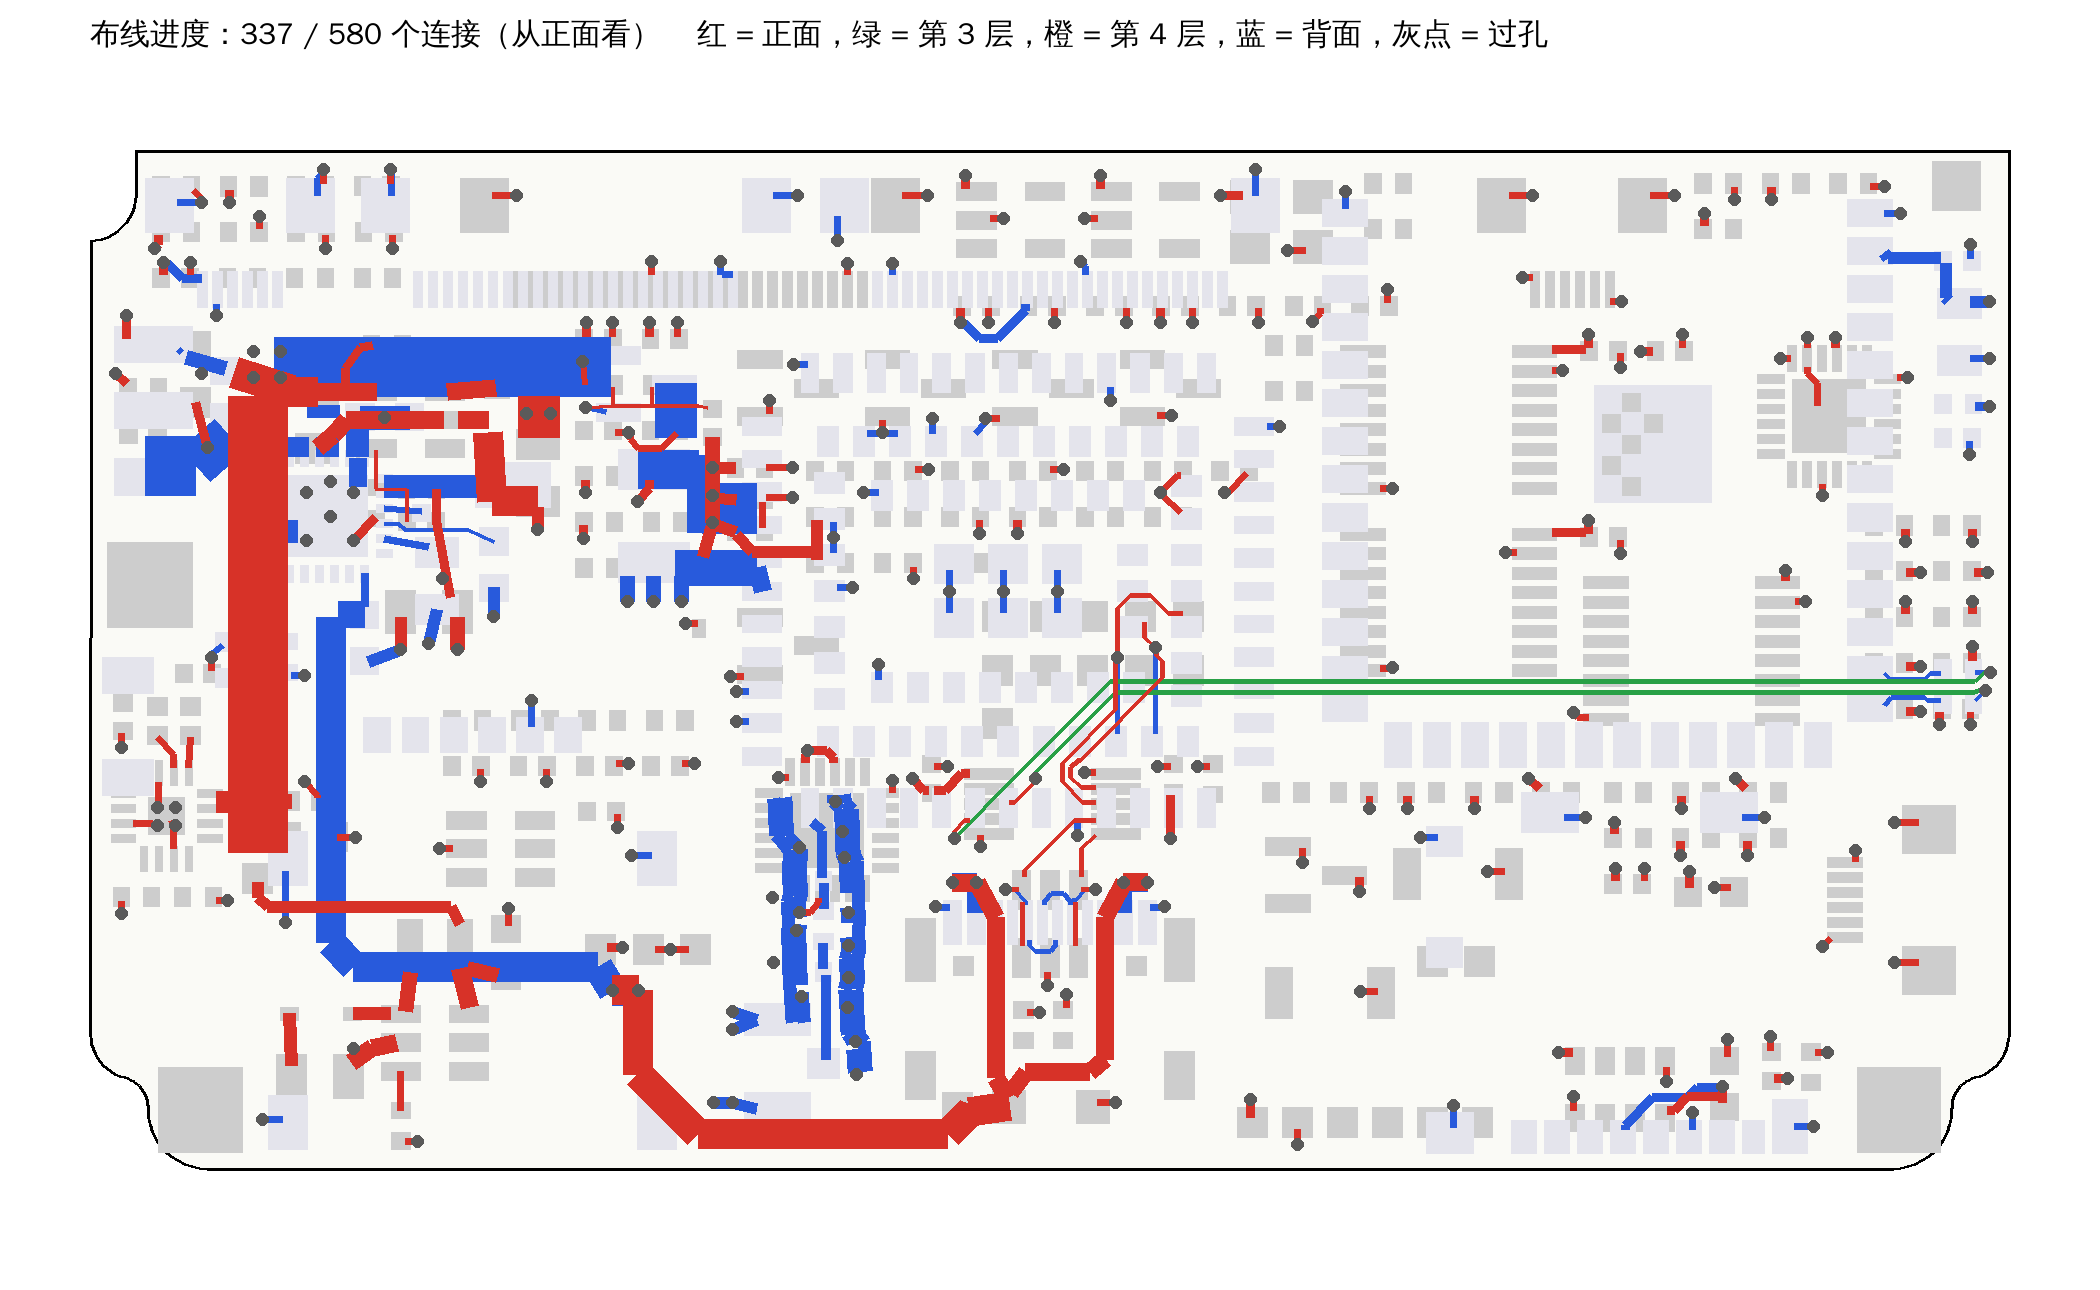
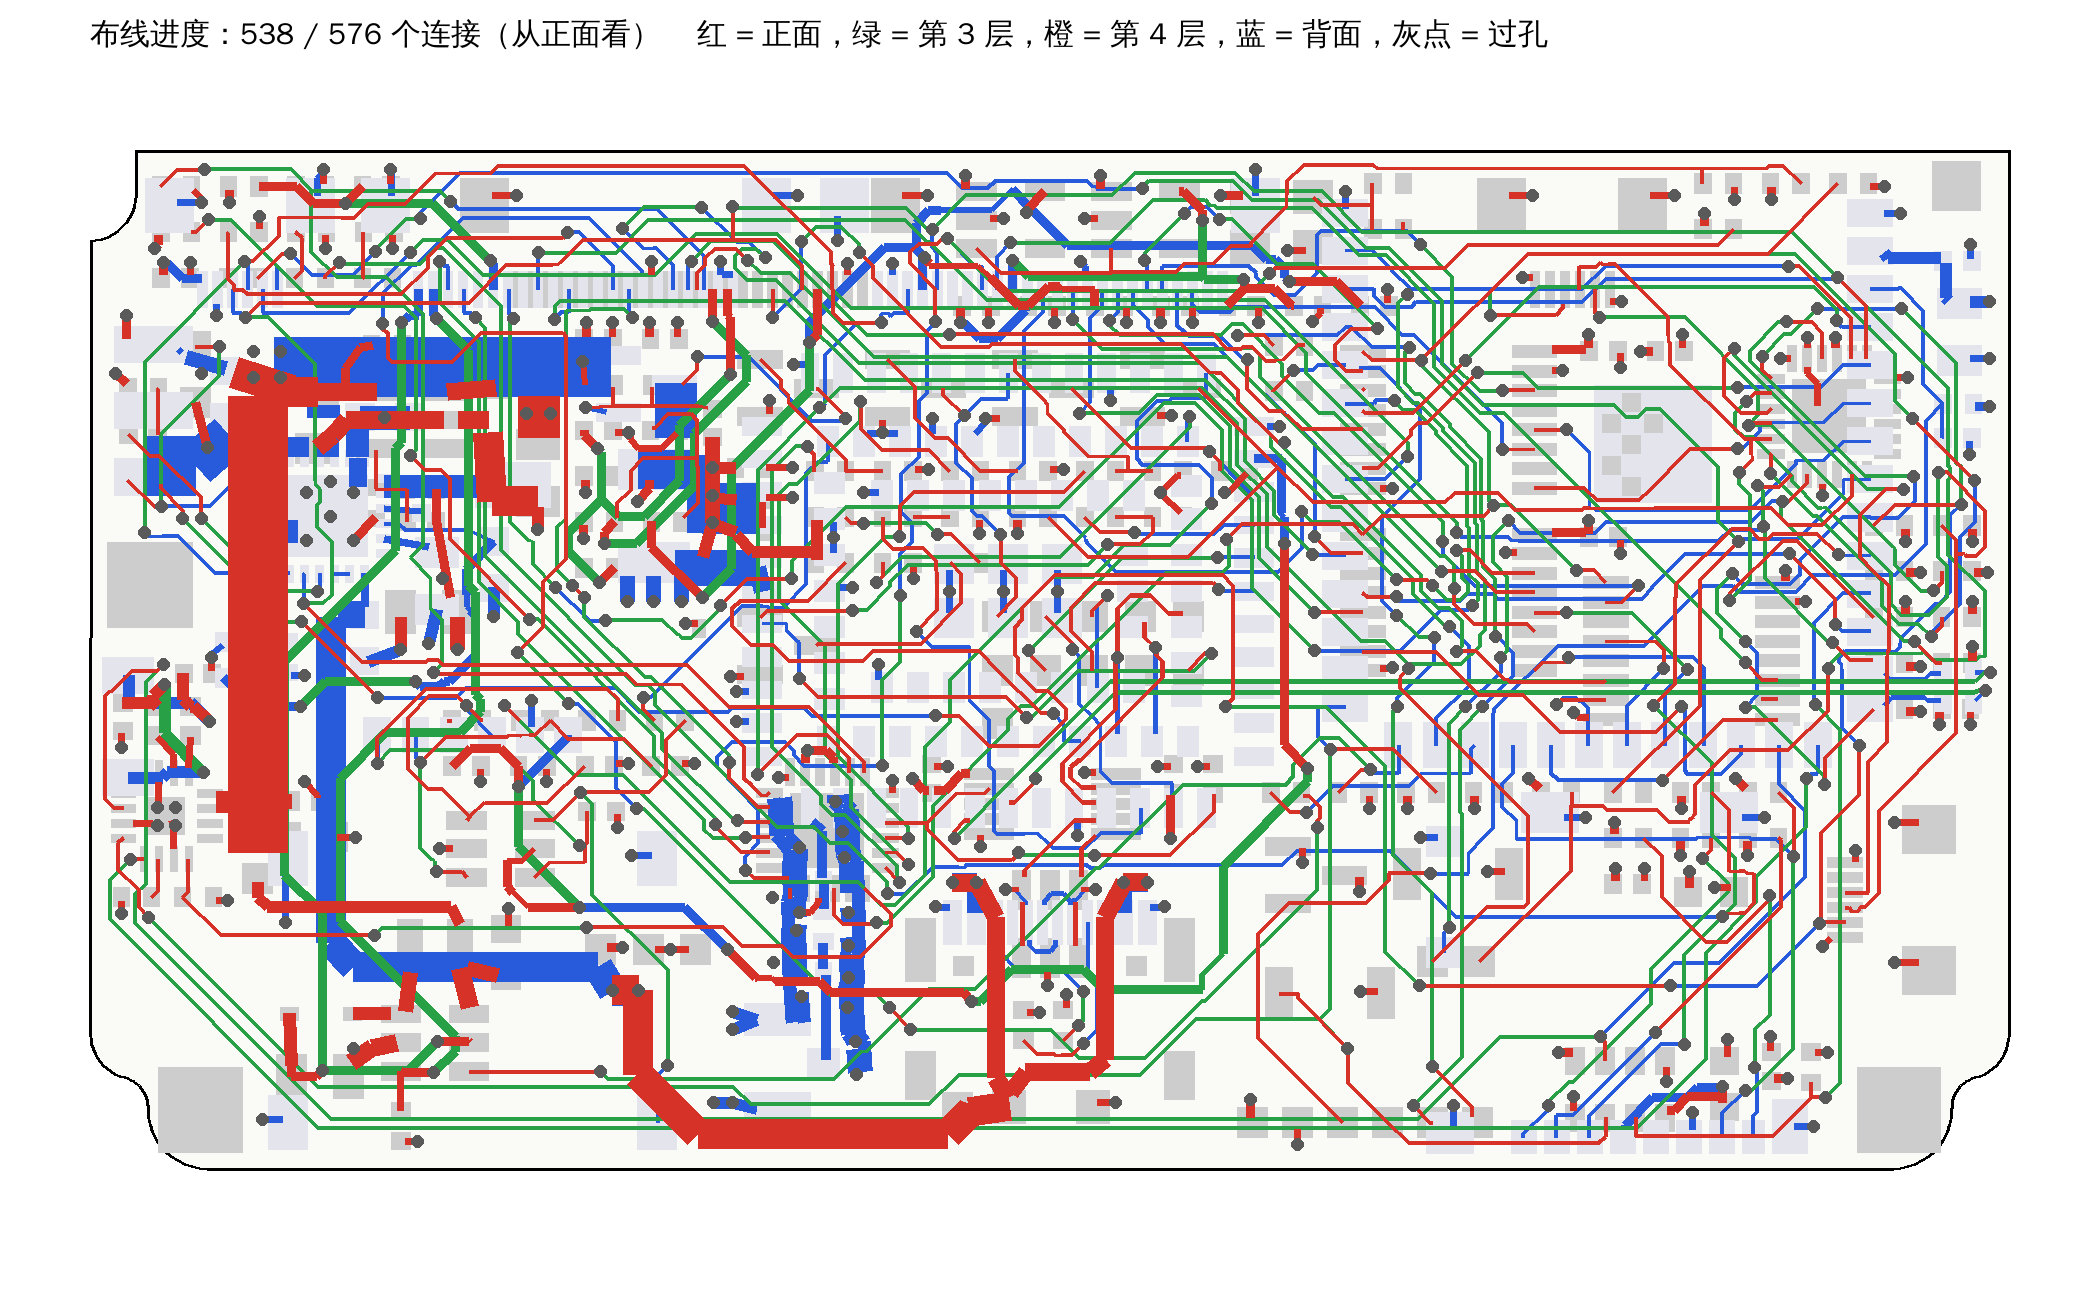
docs(hardware): record the second Freerouting round and where it stops
538 of 576 connections, rule check clean. The README now says how the
hand-off file is made, how to rerun with a time limit, and why 38 signal
connections are left: pads that cannot get out, 20 of them on the three FPC
connectors at the top edge.

Claude-Session: https://claude.ai/code/session_01JQaTnpSi55n8moiBs7CGgN

diff --git a/hardware/esp32-s3-board/kicad/README.md b/hardware/esp32-s3-board/kicad/README.md
@@ -4,10 +4,11 @@ ESP32-S3-WROOM-1U-N16R8 + Air780E 的主板，第一版，**草稿**：原理图
 **布线没有完成，还不能投板。**引脚分配按 `../docs/requirements.md` 的方案三。
 
 > **当前状态**：六层、板厚 1.6 mm，按 [`../docs/layout-spec.md`](../docs/layout-spec.md)（V0.3）在做。
-> - `zeebuddy-mainboard.kicad_pcb` 现在是**第二轮的底子**：电源铜皮、三个开关电源、天线线、USB、
->   每个地和 3.3 V 焊盘的过孔都已经做好并锁定；KiCad 检查 0 条违规；剩 **243 处信号连接**还没布。
-> - 下一步：用 `freerouting/zeebuddy-mainboard.dsn` 在 Freerouting 里布信号线（见"第二轮"一节），
->   把结果交回来导入、收尾。
+> - `zeebuddy-mainboard.kicad_pcb` 是**第二轮的结果**：底子（电源铜皮、三个开关电源、天线线、USB、
+>   每个地和 3.3 V 焊盘的过孔）已锁定，信号线由 Freerouting 布了 20 分钟再收尾。
+>   576 处连接通了 **538 处**，KiCad 检查 0 条违规，**还剩 38 处信号线没连**。
+> - 剩下的 38 处是"线出不来"：多数在上边缘的三个排线座（屏、前摄、后摄），引脚正下方紧贴着元件和电源铜带。
+>   这要靠调整摆放解决，不是再多跑几轮能解决的（见"第二轮"一节）。
 > - 还没达标的：USB 四段里三段的等长（USB-3）；另有 3 处和规范的出入等确认（见规范的"待定问题"）。
 
 ## 文件
@@ -24,10 +25,11 @@ ESP32-S3-WROOM-1U-N16R8 + Air780E 的主板，第一版，**草稿**：原理图
 | `camera.kicad_sch` | 6 前后摄像头、总线切换、摄像头电源 |
 | `audio_tf.kicad_sch` | 7 麦克风、功放、TF 卡 |
 | `zeebuddy.kicad_sym` | 工程自带的符号（Air780E、排线座等） |
-| `zeebuddy-mainboard.kicad_pcb` | PCB：六层，外形、螺丝孔、213 个元件全部摆好；电源、地、天线线、USB 已布好并锁定，信号线未布 |
+| `zeebuddy-mainboard.kicad_pcb` | PCB：六层，外形、螺丝孔、213 个元件全部摆好；电源、地、天线线、USB 已布好并锁定，信号线布了 205 / 243 处 |
 | `placement-front.png` / `placement-back.png` | 正反两面主要器件的摆放示意图 |
 | `routing.png` | 当前布线的示意图 |
-| `freerouting/zeebuddy-mainboard.dsn` | **第二轮**给 Freerouting 用的板子文件（底子已锁定，只剩信号线） |
+| `freerouting/zeebuddy-mainboard.dsn` | **第二轮**给 Freerouting 用的板子文件（底子作为障碍，只有信号线要布） |
+| `freerouting/zeebuddy-mainboard.ses` | 第二轮 Freerouting 的结果（2.5.0，限时 20 分钟） |
 | `freerouting/round1.ses` | 第一轮的布线结果，存档用。它对应的是旧摆放（提交 `2e952f9`），不能导入现在的板子 |
 | `zeebuddy.pretty/` | 工程自带的封装（Air780E、SY6970、麦克风和几个占位封装） |
 | `gen/` | 生成原理图、封装库和 PCB 的脚本，见下面"PCB 是怎么生成的" |
@@ -56,7 +58,7 @@ gen/build.sh
 - PCB 与原理图一致性：213 个封装、全部焊盘的网络都与原理图一致。
 - KiCad DRC：元件之间没有重叠，没有超出板边；已布的线没有间距、短路、孔距、板边类的违规。
   有 1 个提示：天线座封装与库里的不一致（我把它自带的禁布区从"所有层"改成了只在背面，是有意的）。
-  剩下 243 个"未连接"，就是还没布的信号线。
+  剩下 38 个"未连接"，是还没布通的信号线。
 
 这些只说明"图和脚本一致、没有悬空或短接、摆放不打架"，**不代表电路经过了实物验证**。
 
@@ -141,37 +143,57 @@ gen/build.sh
   按 2 A 算会掉 0.12 V 以上，占了"跌落 ≤300 mV"预算的四成。这是原理图层面的事，这次没有动，
   打样前值得换一颗导通电阻更低的管子。
 
-### 第二轮：用 Freerouting 布信号线（在自己的电脑上）
+### 第二轮：用 Freerouting 布信号线
 
-`freerouting/zeebuddy-mainboard.dsn` 里，底子的 850 多段线和过孔都是**锁定**的，Freerouting 不会动；
-两层地和 3.3 V 那一层标成了电源层，它不会在上面走信号线，只用第 1、3、6 层。留给它的是 243 处信号连接。
+**结果（2026-11-11，Freerouting 2.5.0，限时 20 分钟）**
 
-和第一轮相比，这份文件补了三处：通孔在内层标成了障碍；板子外形往里收了 0.32 mm（留出板边间距）；
-天线线两侧用锁定的地线占住。
+| 步骤 | 没连上的信号连接 |
+|---|---|
+| 交给 Freerouting 之前 | 243 |
+| Freerouting 跑 8 轮（20 分钟到点停） | 48 |
+| `finish.py` 清理并补线之后 | **38** |
 
-1. **拿到板子文件。** 从仓库下载 `hardware/esp32-s3-board/kicad/freerouting/zeebuddy-mainboard.dsn`（或者用我发过去的那份）。
-2. **打开。** Freerouting 菜单 `文件 → 打开`，选这个 `.dsn`。能看到板子外形、元件焊盘和已经锁定的电源铜皮。
-   它可能提示"已有若干处违规"，那是它按自己的规则检查锁定的线得出的，可以不管。
-3. **开始自动布线。** 点工具栏上的魔术棒图标。窗口下方显示还剩多少条没连上。
-4. **等它停。** 未连接数降到 0、或者连续很多轮不再减少，就可以停了（点一下鼠标会中断）。
-5. **保存结果。** 菜单 `文件 → 另存为`，存成 `zeebuddy-mainboard.ses`。
-6. **交回来。** 把这个 `.ses` 发给我，或者放进 `freerouting/` 目录后运行：
+导入后 KiCad 检查 0 条违规（没有短路、没有间距问题），底子一条没动。
 
-   ```bash
-   /usr/bin/python3.12 gen/freeroute.py . --ses freerouting/zeebuddy-mainboard.ses
-   /usr/bin/python3.12 gen/finish.py .
-   /usr/bin/python3.12 gen/check.py .
-   ```
+**剩下的 38 处卡在哪里。** 全部是焊盘被围住、线出不来：
+
+| 位置 | 数量 | 原因 |
+|---|---|---|
+| 前摄像头排线座 J11（正面，上边缘） | 12 | 引脚下方 0.5 mm 就是一排电容电阻和它们的过孔 |
+| 屏排线座 J8（背面，上边缘） | 5 | 引脚下方 1 mm 是 2 mm 宽的系统电源铜带；J8 和 J11 正反两面有 6 mm 重叠，过孔互相占位 |
+| 后摄像头排线座 J10（背面，上边缘） | 3 | 同上 |
+| 其余（充电芯片、SIM、测试点、扩展芯片、J11 下方那排电阻等） | 18 | 零散的被围住的焊盘 |
+
+结论：这是摆放的问题。排线座是 0.5 mm 间距，出线需要引脚外侧有 1.5 ~ 2 mm 的空带打两排错开的过孔，
+现在没有留。下一轮要先在这三个排线座下方清出空带（或者把 J8、J11 错开），再重做底子、重跑。
+
+**交接文件的做法（脚本自动完成）**
+
+- 底子里已经连好的 25 个网络（地、3.3 V、各路电源、天线、USB）**不作为网络**交给 Freerouting：
+  它们的铜变成禁布区，焊盘不带网络。Freerouting 看到的只有障碍和 243 处信号连接。
+  （第一次直接把它们当锁定的线交过去，Freerouting 每一轮都去尝试连接地和 3.3 V 的 250 多个焊盘，
+  30 分钟没走完第一轮。）
+- 地和 3.3 V 各留一个焊盘，这样三层平面还在文件里，Freerouting 才不会在平面层上走信号线
+  （去掉平面试过一次：它在平面层上布了 160 段线，全部和过孔短路）。
+- 通孔在内层补了铜；板子外形往里收 0.32 mm；天线线两侧用地线占住。
+- 运行时加时间上限（`--router.job_timeout`）：Freerouting 只在停下时才写结果，不限时会为最后几十处跑一个小时以上。
+
+**重跑的命令**
+
+```bash
+/usr/bin/python3.12 gen/freeroute.py .                       # 生成 .dsn
+java -jar freerouting-2.5.0.jar -de freerouting/zeebuddy-mainboard.dsn -do freerouting/zeebuddy-mainboard.ses \
+     --router.autorouter.max_passes=40 --router.job_timeout=00:20:00 -mt 1 --gui.enabled=false
+/usr/bin/python3.12 gen/freeroute.py . --ses freerouting/zeebuddy-mainboard.ses   # 导入
+/usr/bin/python3.12 gen/finish.py .                          # 清理、补线
+/usr/bin/python3.12 gen/check.py .                           # 检查表
+```
 
 注意：
 
-- Freerouting **不会**把 USB 当差分对来走，所以 USB 是先在这边画好再锁定的，不要在 Freerouting 里解锁它们。
+- Freerouting **不会**把 USB 当差分对来走，所以 USB 是先在这边画好再锁定的。
 - `.dsn` 由 `gen/freeroute.py` 生成；元件位置或底子变了要重新生成，旧的 `.ses` 就不能用了。
-- 不想点界面也可以用一条命令：
-
-  ```bash
-  java -jar freerouting-版本号.jar -de zeebuddy-mainboard.dsn -do zeebuddy-mainboard.ses -mp 100
-  ```
+- 用界面跑也可以（`文件 → 打开` 选 `.dsn`，点自动布线，停下后 `文件 → 另存为` 存成 `.ses`），但界面没有时间上限，要自己看着停。
 
 ### 以前几轮的记录
 
